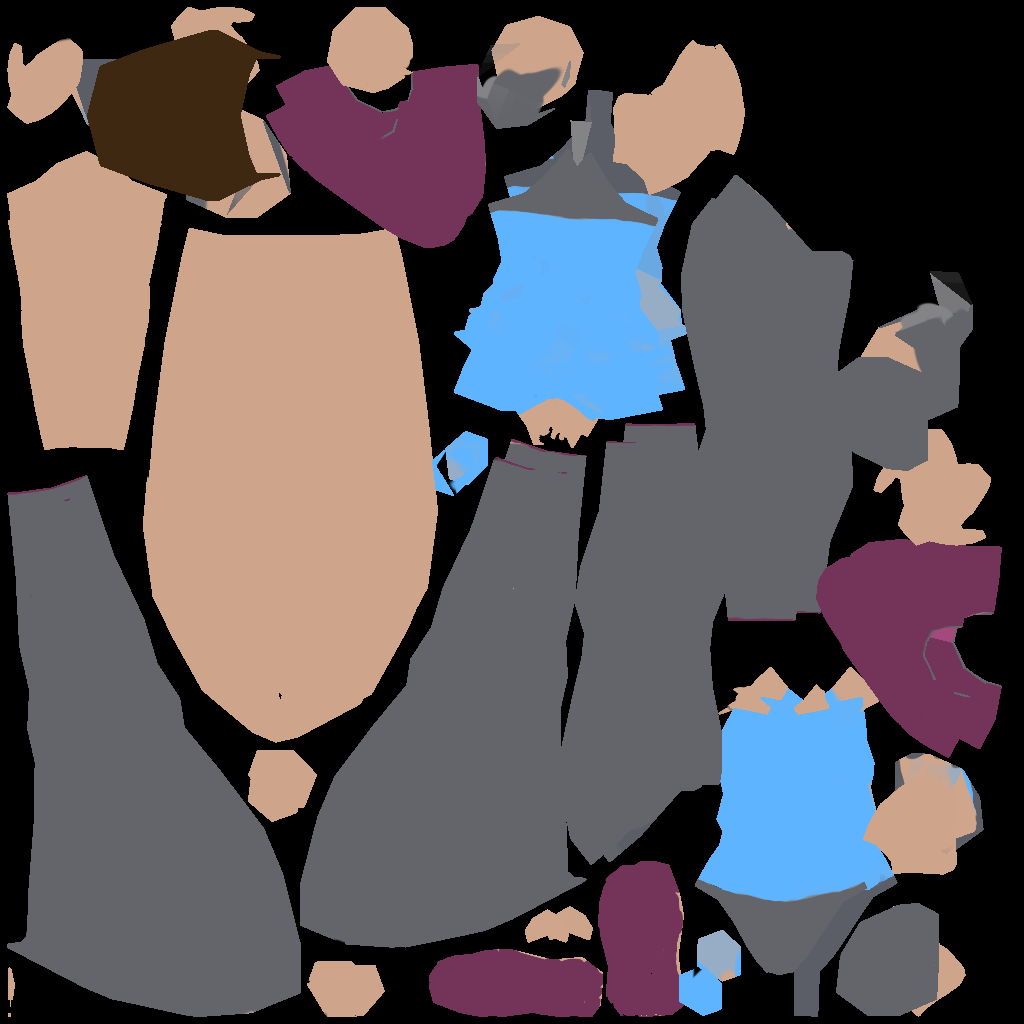
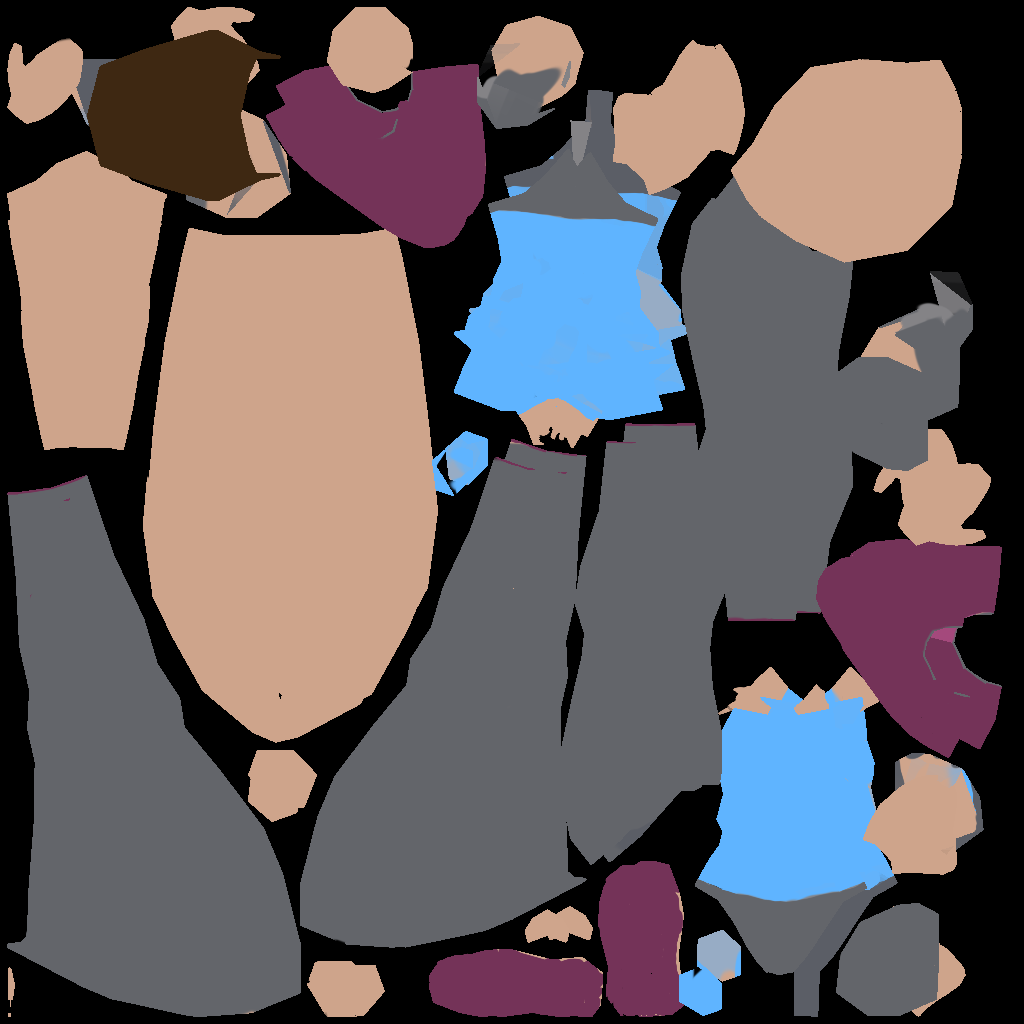
Sprint 3: Programación de la Jerarquía y ubicación de transformación en C++  de visitante femenino.

Changed region(s): [[0.7188, 0.0312, 0.9375, 0.2812]]

diff --git a/ProyectoFinal/Proyecto_Final.cpp b/ProyectoFinal/Proyecto_Final.cpp
@@ -311,6 +311,14 @@ int main()
 	Model tubo((char*)"Models/banner/tubo_banner.obj");
 	Model banner((char*)"Models/banner/banner.obj");
 
+	// --- CARGA DEL MODELO FEMENINO ---
+	Model cabezaFemenino((char*)"Models/visitanteFemenino/cabezaFemenino.obj");
+	Model brazoDerFemenino((char*)"Models/visitanteFemenino/brazoDerFemenino.obj");
+	Model brazoIzqFemenino((char*)"Models/visitanteFemenino/brazoIzqFemenino.obj");
+	Model piernaDerFemenino((char*)"Models/visitanteFemenino/piernaDerFemenino.obj");
+	Model torsoFemenino((char*)"Models/visitanteFemenino/torsoFemenino.obj");
+	Model piernaIzqFemenino((char*)"Models/visitanteFemenino/piernaIzqFemenino.obj");
+
 
 	// Setup VAO and VBO for the light cube
 	GLuint VBO, VAO;
@@ -504,6 +512,19 @@ int main()
 		glUniform1i(glGetUniformLocation(lightingShader.Program, "transparency"), 0);
 		stand3.Draw(lightingShader);
 		// -------------------------------
+
+		// --- DIBUJADO DEL MODELO FEMENINO ---
+		// Como ya vienen con las coordenadas desde Blender, solo usamos una matriz identidad.
+		model = glm::mat4(1);
+		glUniformMatrix4fv(modelLoc, 1, GL_FALSE, glm::value_ptr(model));
+		glUniform1i(glGetUniformLocation(lightingShader.Program, "transparency"), 0); 
+		cabezaFemenino.Draw(lightingShader);
+		brazoDerFemenino.Draw(lightingShader);
+		brazoIzqFemenino.Draw(lightingShader);
+		piernaDerFemenino.Draw(lightingShader);
+		torsoFemenino.Draw(lightingShader);
+		piernaIzqFemenino.Draw(lightingShader);
+		// ------------------------------------
 
 
 		// --- LÓGICA DE ANIMACIÓN DEL ROLL-UP ---